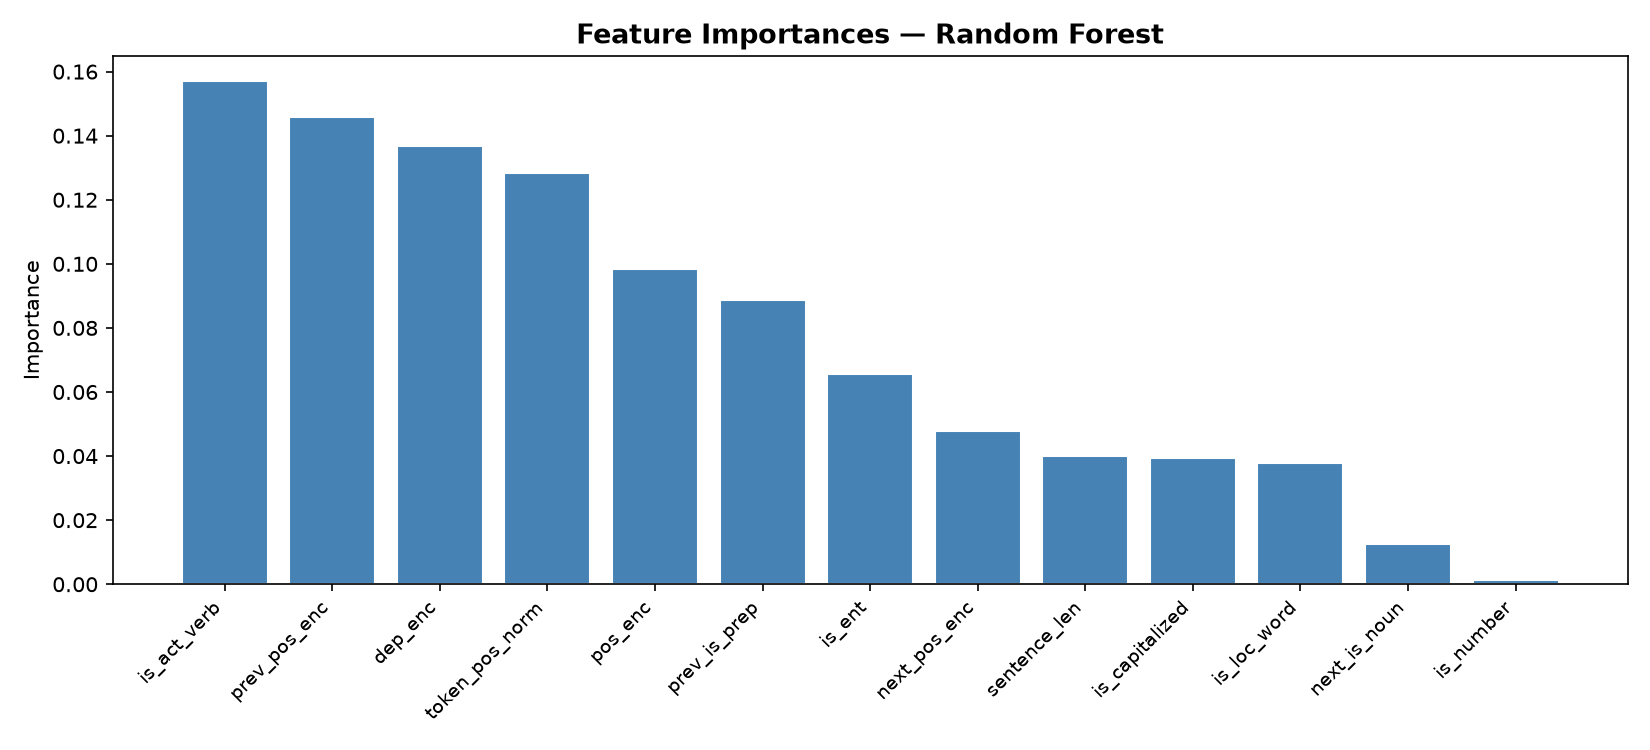
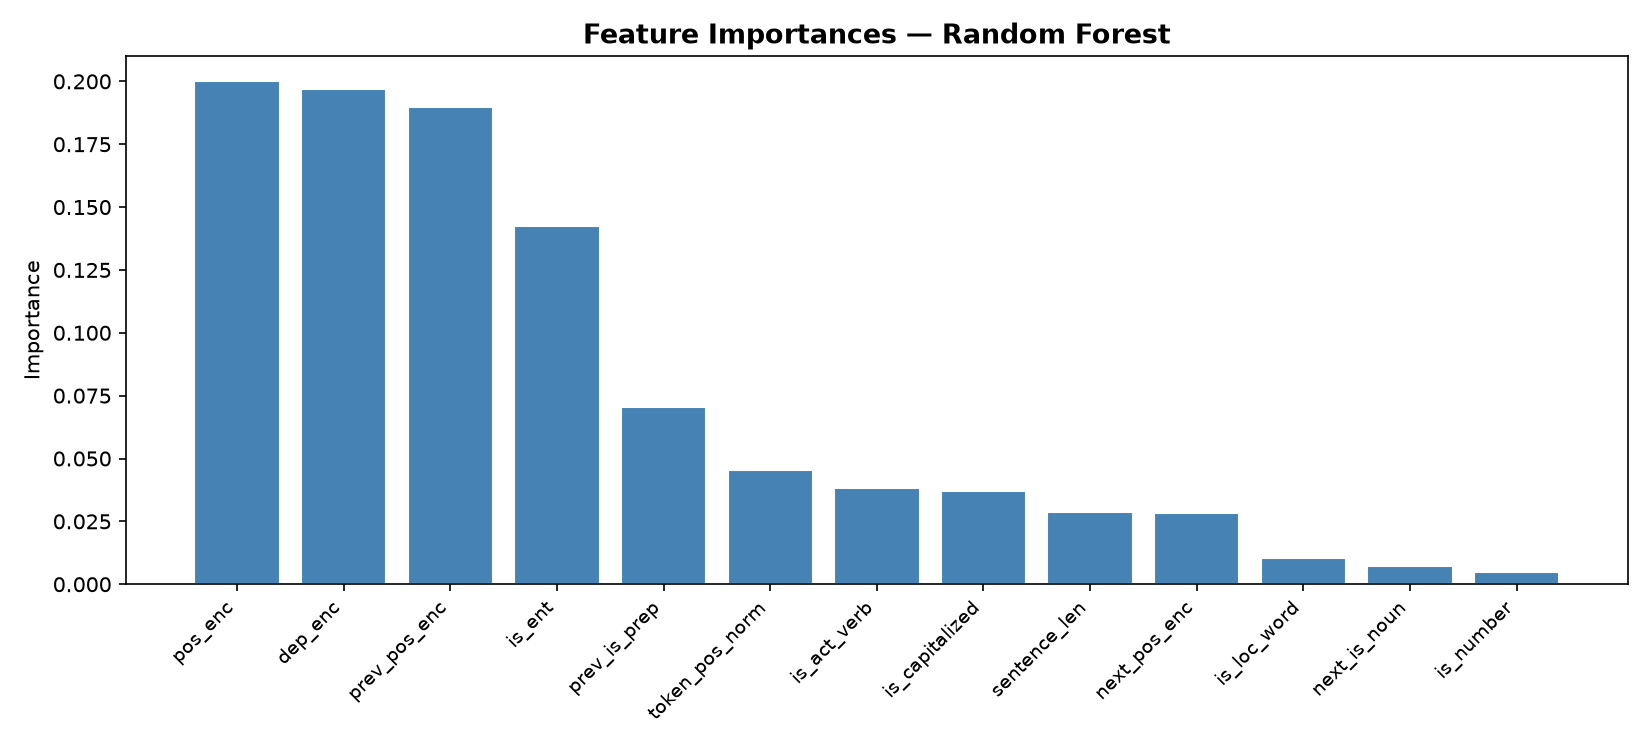
finally completed

diff --git a/emergency_nlp_project/scripts/download_data.py b/emergency_nlp_project/scripts/download_data.py
@@ -1,175 +1,218 @@
 """
-Phase 1 - Corpus Collection Script
-===================================
-Downloads the "NLP with Disaster Tweets" dataset from Kaggle,
-filters for real disaster messages, adds Hinglish/Indian-context
-samples, and outputs a clean CSV:
-    data/processed/corpus.csv  ->  message_id, raw_text, source, is_disaster
+Phase 1 - Corpus Download from Kaggle
+======================================
+Two modes:
+  A. Competition dataset (requires accepting rules + kaggle.json)
+  B. Public dataset upload (no rules needed, just kaggle.json)
 
-SETUP (one-time):
-  1. Go to https://www.kaggle.com/settings  -> API -> Create New Token
-  2. Place the downloaded kaggle.json in:   C:/Users/<YourName>/.kaggle/kaggle.json
-  3. Run:  python scripts/download_data.py
+SETUP (one-time, 2 minutes):
+  1. Go to https://www.kaggle.com/settings
+     API section -> "Create New Token"  ->  kaggle.json downloads
+  2. Place kaggle.json at:
+     Windows: C:/Users/<YourName>/.kaggle/kaggle.json
+
+THEN for Mode A (competition):
+  3. Go to https://www.kaggle.com/competitions/nlp-getting-started/rules
+     Click "I Understand and Accept" button  (REQUIRED, free & instant)
+
+THEN run:
+  python scripts/download_data.py
 """
 
-import os
-import sys
-import zipfile
-import shutil
+import os, sys, zipfile, shutil
 import pandas as pd
 
-# ---------------------------------------------------------------------------
-# Config
-# ---------------------------------------------------------------------------
-BASE_DIR   = os.path.dirname(os.path.dirname(os.path.abspath(__file__)))
-RAW_DIR    = os.path.join(BASE_DIR, "data", "raw")
-PROC_DIR   = os.path.join(BASE_DIR, "data", "processed")
-KAGGLE_COMP = "nlp-getting-started"
-
-os.makedirs(RAW_DIR, exist_ok=True)
+BASE_DIR  = os.path.dirname(os.path.dirname(os.path.abspath(__file__)))
+RAW_DIR   = os.path.join(BASE_DIR, "data", "raw")
+PROC_DIR  = os.path.join(BASE_DIR, "data", "processed")
+os.makedirs(RAW_DIR,  exist_ok=True)
 os.makedirs(PROC_DIR, exist_ok=True)
 
-# ---------------------------------------------------------------------------
-# Step 1 – Download from Kaggle
-# ---------------------------------------------------------------------------
-def download_kaggle_data():
-    print("[1/4] Downloading dataset from Kaggle ...")
-    try:
-        import kaggle                                   # noqa – triggers auth check
-        os.system(
-            f'kaggle competitions download -c {KAGGLE_COMP} -p "{RAW_DIR}"'
-        )
-    except Exception as e:
-        print(f"  ERROR: {e}")
-        print("  Make sure kaggle.json is placed in C:/Users/<You>/.kaggle/")
-        sys.exit(1)
+# Check project root first, then ~/.kaggle/
+_project_json = os.path.join(BASE_DIR, "kaggle.json")
+_default_json = os.path.join(os.path.expanduser("~"), ".kaggle", "kaggle.json")
+KAGGLE_JSON = _project_json if os.path.exists(_project_json) else _default_json
 
-    zip_path = os.path.join(RAW_DIR, f"{KAGGLE_COMP}.zip")
+# If found in project root, copy to ~/.kaggle/ so the kaggle CLI can find it
+if os.path.exists(_project_json) and _project_json == KAGGLE_JSON:
+    import shutil as _sh
+    os.makedirs(os.path.dirname(_default_json), exist_ok=True)
+    _sh.copy(_project_json, _default_json)
+    os.chmod(_default_json, 0o600)
+
+# ── Public dataset slug (no competition acceptance needed) ───────────────────
+# Same data, uploaded as a regular dataset by the community
+PUBLIC_DATASET = "vbmokin/nlp-with-disaster-tweets-cleaning-data"
+COMPETITION    = "nlp-getting-started"
+
+HINGLISH_MESSAGES = [
+    "Bahut tez barish ho rahi hai Yamuna bridge ke paas paani aa gaya help chahiye",
+    "Flood in Sector 12 Noida please send boats urgently log fase mein atke hain",
+    "SOS Gandhi Nagar mein ghar ke andar paani aa gaya rescue team bhejo please",
+    "Yamuna overflowing near Kalindi Kunj need immediate evacuation DelhiFloods",
+    "Chambal river flooding Morena district villages near Joura cut off need army",
+    "Barish ne rasta band kar diya ambulance nahi aa sakti medical help needed Kota",
+    "Brahmaputra flood in Majuli island 5000 people stranded boats aur food chahiye",
+    "Rescue needed at Vaishali Nagar Guwahati houses submerged AssamFloods",
+    "Need helicopter rescue from Bageshwar Uttarakhand road completely washed away",
+    "Srinagar Dal Lake area flooding send NDRF team to Hazratbal immediately",
+    "Bhookamp aa gaya Chamoli mein buildings gir gayi NDRF ko bulao jaldi",
+    "Tremors felt in Delhi NCR Noida Sector 62 mein cracks in buildings evacuating",
+    "People trapped under rubble in Joshimath after quake heavy equipment needed now",
+    "Factory mein aag lag gayi Okhla Industrial Area Phase 2 fire brigade call karo",
+    "Building fire in Dharavi slum people stuck on upper floors ladder truck needed",
+    "Massive fire in Anaj Mandi Delhi multiple casualties blood O+ urgently needed",
+    "Forest fire spreading near Nainital villages in Ramgarh at risk evacuation needed",
+    "Cyclone Biparjoy approaching Kutch coast fishing villages need immediate evacuation",
+    "Very heavy rain in Chennai Velachery area waterlogged need boats urgently",
+    "Storm in Odisha coast Puri district fishermen stuck at sea coast guard needed",
+    "Road accident on NH-8 near Gurgaon toll 3 injured need ambulance urgently",
+    "Child fell in borewell near Hisar Haryana NDRF team needed immediately",
+    "Landslide blocked NH-44 near Ramban JK 200 vehicles stranded need bulldozers",
+    "Multiple people injured after wall collapse in Bhiwandi send rescue immediately",
+    "Train derailment near Balasore Odisha many casualties blood donors needed urgently",
+    "Heatwave in Rajasthan 48 deg C in Churu elderly people collapsing medical camps",
+    "Gas leak in BHEL plant Haridwar workers evacuating fire brigade medical on way",
+    "Missing child 8 yr old lost near Kumbh Mela Prayagraj police help needed",
+    "Jal bhar gaya basement mein RK Puram sector 4 pump chalao please urgently",
+    "Nainital mein landslide road band water supply cut rescue teams bhejo immediately",
+    "Bus accident near Manali hill road 15 injured hospital 50km away send helicopter",
+    "Gas explosion near Sector 5 Noida industrial area injured people need ambulance",
+    "Earthquake in Manipur buildings collapsed near Imphal West send rescue teams",
+    "Cyclone warning coastal villages near Kakinada not yet evacuated need buses now",
+    "Stampede at Kumbh Mela Prayagraj many injured near Sangam ghat send medical",
+]
+
+# ── Step 1: Check credentials ─────────────────────────────────────────────────
+def check_kaggle_json():
+    if not os.path.exists(KAGGLE_JSON):
+        print("\n" + "="*60)
+        print("  kaggle.json NOT FOUND")
+        print("="*60)
+        print("""
+  To fix this (takes ~2 minutes):
+
+  1. Open: https://www.kaggle.com/settings
+  2. Scroll to "API" section
+  3. Click "Create New Token"
+  4. A file called kaggle.json will download
+  5. Move it to:
+       """ + KAGGLE_JSON + """
+
+  Then run this script again.
+""")
+        return False
+    print("[OK] kaggle.json found")
+    return True
+
+# ── Step 2: Try competition download, fall back to public dataset ─────────────
+def download_data():
+    train_path = os.path.join(RAW_DIR, "train.csv")
+    if os.path.exists(train_path):
+        print("[1/4] train.csv already exists - skipping download.")
+        return True
+
+    print("[1/4] Attempting competition download ...")
+    ret = os.system(
+        f'kaggle competitions download -c {COMPETITION} -p "{RAW_DIR}" --quiet'
+    )
+
+    zip_path = os.path.join(RAW_DIR, f"{COMPETITION}.zip")
+
+    if ret != 0 or not os.path.exists(zip_path):
+        print("\n  Competition download failed (403?).")
+        print("  --> You may need to accept the rules first:")
+        print("      https://www.kaggle.com/competitions/nlp-getting-started/rules")
+        print("\n  Trying public dataset fallback ...")
+
+        ret2 = os.system(
+            f'kaggle datasets download -d {PUBLIC_DATASET} -p "{RAW_DIR}" --quiet --unzip'
+        )
+
+        # Look for any CSV that looks like training data
+        for fname in os.listdir(RAW_DIR):
+            if "train" in fname.lower() and fname.endswith(".csv"):
+                src = os.path.join(RAW_DIR, fname)
+                dst = os.path.join(RAW_DIR, "train.csv")
+                if src != dst:
+                    shutil.copy(src, dst)
+                print(f"  Found: {fname} -> using as train.csv")
+                return True
+
+        if ret2 != 0:
+            print("\n  Public dataset also failed.")
+            print("  Falling back to sample corpus instead ...")
+            return False
+
+    # Extract competition zip
     if os.path.exists(zip_path):
         with zipfile.ZipFile(zip_path, "r") as z:
             z.extractall(RAW_DIR)
         print(f"  Extracted to {RAW_DIR}")
-    else:
-        print("  Zip not found – check download path.")
-        sys.exit(1)
 
-# ---------------------------------------------------------------------------
-# Step 2 – Load & filter
-# ---------------------------------------------------------------------------
+    return os.path.exists(train_path)
+
+# ── Step 3: Load + filter ─────────────────────────────────────────────────────
 def load_and_filter():
-    print("[2/4] Loading train.csv ...")
     train_path = os.path.join(RAW_DIR, "train.csv")
+    print("[2/4] Loading train.csv ...")
     df = pd.read_csv(train_path)
 
-    print(f"  Total rows      : {len(df)}")
-    print(f"  Disaster (1)    : {df['target'].sum()}")
-    print(f"  Non-disaster (0): {(df['target'] == 0).sum()}")
+    # Handle both dataset formats (competition has 'target', public may differ)
+    if "target" in df.columns:
+        disaster_df = df[df["target"] == 1].copy()
+    else:
+        disaster_df = df.copy()   # public dataset may already be filtered
 
-    # Keep only real disaster messages
-    disaster_df = df[df["target"] == 1].copy()
-    disaster_df = disaster_df[["id", "text", "keyword", "location"]].rename(
-        columns={"id": "message_id", "text": "raw_text"}
+    print(f"  Total rows     : {len(df)}")
+    print(f"  Disaster rows  : {len(disaster_df)}")
+
+    disaster_df = disaster_df.rename(columns={"id": "message_id", "text": "raw_text"})
+    disaster_df["message_id"] = disaster_df["message_id"].astype(str).apply(
+        lambda x: f"KG_{int(x):05d}" if x.isdigit() else x
     )
     disaster_df["source"] = "kaggle_nlp_disaster_tweets"
-    disaster_df["message_id"] = disaster_df["message_id"].astype(str)
+    return disaster_df[["message_id", "raw_text", "source"]]
 
-    print(f"  Kept {len(disaster_df)} disaster messages")
-    return disaster_df
-
-# ---------------------------------------------------------------------------
-# Step 3 – Add Hinglish / Indian-context messages
-# ---------------------------------------------------------------------------
-HINGLISH_MESSAGES = [
-    # Floods
-    "Bahut tez barish ho rahi hai, Yamuna bridge ke paas paani aa gaya, help chahiye!",
-    "Flood in Sector 12, Noida. Please send boats urgently. Log phase mein atke hain.",
-    "SOS - Gandhi Nagar mein ghar ke andar paani aa gaya. Rescue team bhejo please.",
-    "Yamuna overflowing near Kalindi Kunj. Need immediate evacuation. #DelhiFloods",
-    "Chambal river flooding Morena district. Villages near Joura cut off. Need army.",
-    "Barish ne rasta band kar diya, ambulance nahi aa sakti, medical help needed at Kota.",
-    "Brahmaputra flood in Majuli island. 5000 people stranded. Boats aur food chahiye.",
-    "Rescue needed at Vaishali Nagar, Guwahati. Houses submerged. #AssamFloods",
-    "Need helicopter rescue from Bageshwar, Uttarakhand - road completely washed away.",
-    "Srinagar Dal Lake area flooding. Send NDRF team to Hazratbal immediately.",
-    # Earthquakes
-    "Earthquake in Manipur, buildings collapsed near Imphal West. Send rescue teams!",
-    "Bhookamp aa gaya! Chamoli mein buildings gir gayi. NDRF ko bulao jaldi.",
-    "Tremors felt in Delhi NCR. Noida Sector 62 mein cracks in buildings. Evacuating.",
-    "Earthquake 6.2 magnitude hit Uttarkashi. Mountain villages unreachable. Need help.",
-    "People trapped under rubble in Joshimath after quake. Heavy equipment needed now.",
-    # Fires
-    "Factory mein aag lag gayi, Okhla Industrial Area Phase 2. Fire brigade call karo!",
-    "Building fire in Dharavi slum. People stuck on upper floors. Ladder truck needed.",
-    "Massive fire in Anaj Mandi Delhi. Multiple casualties. Blood O+ urgently needed.",
-    "Forest fire spreading near Nainital. Villages in Ramgarh at risk. Evacuation needed.",
-    "Aag Chandni Chowk market mein. Water supply cut off. More fire engines needed urgently.",
-    # Cyclones / Storms
-    "Cyclone Biparjoy approaching Kutch coast. Fishing villages need immediate evacuation.",
-    "Tauktae cyclone impact in Raigad district. Trees uprooted, roads blocked. Send help.",
-    "Very heavy rain in Chennai due to depression. Velachery area waterlogged. Need boats.",
-    "Storm in Odisha coast, Puri district. Fishermen stuck at sea. Coast Guard needed!",
-    "Cyclone warning - coastal villages near Kakinada not yet evacuated. Need buses now.",
-    # General emergencies
-    "Medical emergency - insulin patient fainted at Connaught Place metro. Ambulance please!",
-    "Road accident on NH-8 near Gurgaon toll. 3 injured. Need ambulance urgently.",
-    "Child fell in borewell near Hisar, Haryana. NDRF team needed immediately. #SaveHim",
-    "Landslide blocked NH-44 near Ramban J&K. 200 vehicles stranded. Need bulldozers.",
-    "Multiple people injured after wall collapse in Bhiwandi. Send rescue immediately.",
-    "Bus accident near Manali, Himachal Pradesh - hill road. 15 injured, hospital far.",
-    "Train derailment near Balasore, Odisha. Many casualties. Blood donors needed urgently.",
-    "Gas leak in BHEL plant Haridwar. Workers evacuating. Fire brigade and medical on way.",
-    "Missing child - 8 yr old boy lost near Kumbh Mela Prayagraj. Police help needed.",
-    "Heatwave in Rajasthan - 48 deg C in Churu. Elderly people collapsing. Medical camps!",
-]
-
-def add_hinglish_messages(disaster_df):
-    print("[3/4] Adding Hinglish / Indian-context messages ...")
-    hinglish_rows = []
-    for i, msg in enumerate(HINGLISH_MESSAGES, start=1):
-        hinglish_rows.append({
-            "message_id" : f"HI_{i:04d}",
-            "raw_text"   : msg,
-            "keyword"    : None,
-            "location"   : None,
-            "source"     : "manual_hinglish_indian_context",
-        })
-    hinglish_df = pd.DataFrame(hinglish_rows)
-    combined = pd.concat([disaster_df, hinglish_df], ignore_index=True)
-    print(f"  Total messages after merge: {len(combined)}")
+# ── Step 4: Add Hinglish ──────────────────────────────────────────────────────
+def add_hinglish(disaster_df):
+    print("[3/4] Adding Hinglish/Indian context messages ...")
+    rows = [{"message_id": f"HI_{i+1:04d}", "raw_text": m, "source": "manual_hinglish"}
+            for i, m in enumerate(HINGLISH_MESSAGES)]
+    combined = pd.concat([disaster_df, pd.DataFrame(rows)], ignore_index=True)
+    print(f"  Total after merge: {len(combined)}")
     return combined
 
-# ---------------------------------------------------------------------------
-# Step 4 – Clean & save
-# ---------------------------------------------------------------------------
+# ── Step 5: Clean + save ──────────────────────────────────────────────────────
 def clean_and_save(df):
-    print("[4/4] Cleaning and saving corpus ...")
-
-    # Basic cleaning
+    print("[4/4] Cleaning and saving ...")
     df["raw_text"] = df["raw_text"].astype(str).str.strip()
-    df = df[df["raw_text"].str.len() > 10].copy()          # drop near-empty rows
-    df = df.drop_duplicates(subset=["raw_text"]).copy()     # drop exact duplicates
+    df = df[df["raw_text"].str.len() > 10].drop_duplicates(subset=["raw_text"])
     df = df.reset_index(drop=True)
-    df["message_id"] = df.apply(
-        lambda r: r["message_id"] if str(r["message_id"]).startswith("HI_")
-                  else f"KG_{int(r['message_id']):05d}",
-        axis=1
-    )
 
-    out_path = os.path.join(PROC_DIR, "corpus.csv")
-    df[["message_id", "raw_text", "source"]].to_csv(out_path, index=False, encoding="utf-8")
-    print(f"\n  Corpus saved  : {out_path}")
-    print(f"  Total messages: {len(df)}")
-    print("\nDone! Proceed to Phase 2 - Annotation.")
+    out = os.path.join(PROC_DIR, "corpus.csv")
+    df[["message_id", "raw_text", "source"]].to_csv(out, index=False, encoding="utf-8")
+    print(f"\n  Saved  : {out}")
+    print(f"  Total  : {len(df)} messages")
+    print(f"\nDone! Next: python scripts/annotate_bio.py")
 
-# ---------------------------------------------------------------------------
-# Main
-# ---------------------------------------------------------------------------
+# ── Main ──────────────────────────────────────────────────────────────────────
 if __name__ == "__main__":
-    if not os.path.exists(os.path.join(RAW_DIR, "train.csv")):
-        download_kaggle_data()
-    else:
-        print("[1/4] train.csv already exists - skipping download.")
+    if not check_kaggle_json():
+        sys.exit(1)
+
+    ok = download_data()
+
+    if not ok:
+        # Full fallback: create sample corpus and continue pipeline
+        print("\n  Generating sample corpus as fallback ...")
+        import subprocess
+        subprocess.run([sys.executable,
+                        os.path.join(BASE_DIR, "scripts", "create_sample_corpus.py")])
+        print("  Sample corpus ready. Pipeline can continue.")
+        sys.exit(0)
 
     disaster_df = load_and_filter()
-    combined    = add_hinglish_messages(disaster_df)
+    combined    = add_hinglish(disaster_df)
     clean_and_save(combined)
+
